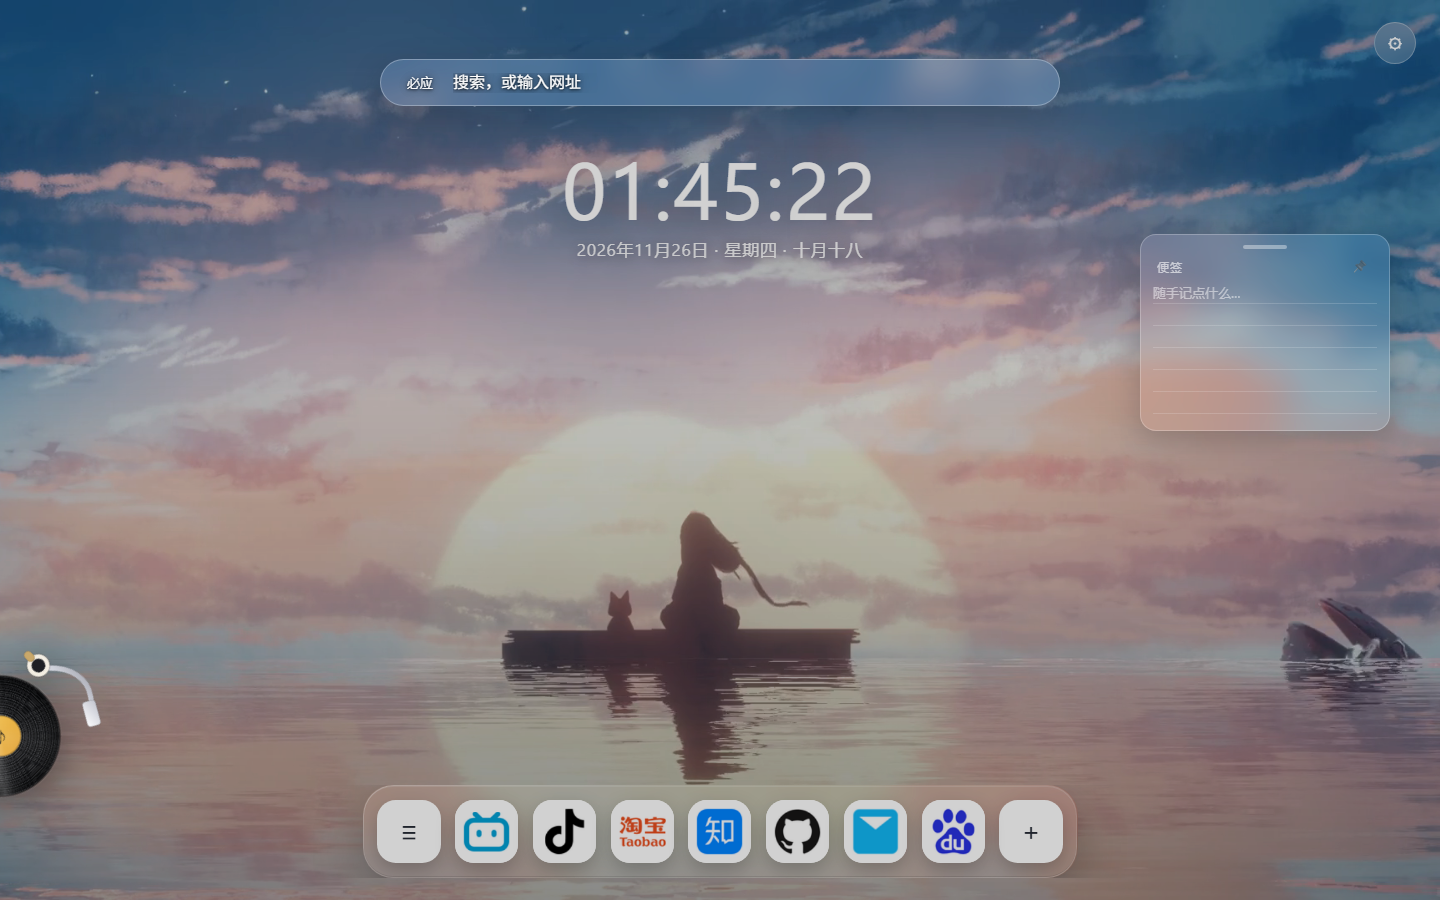
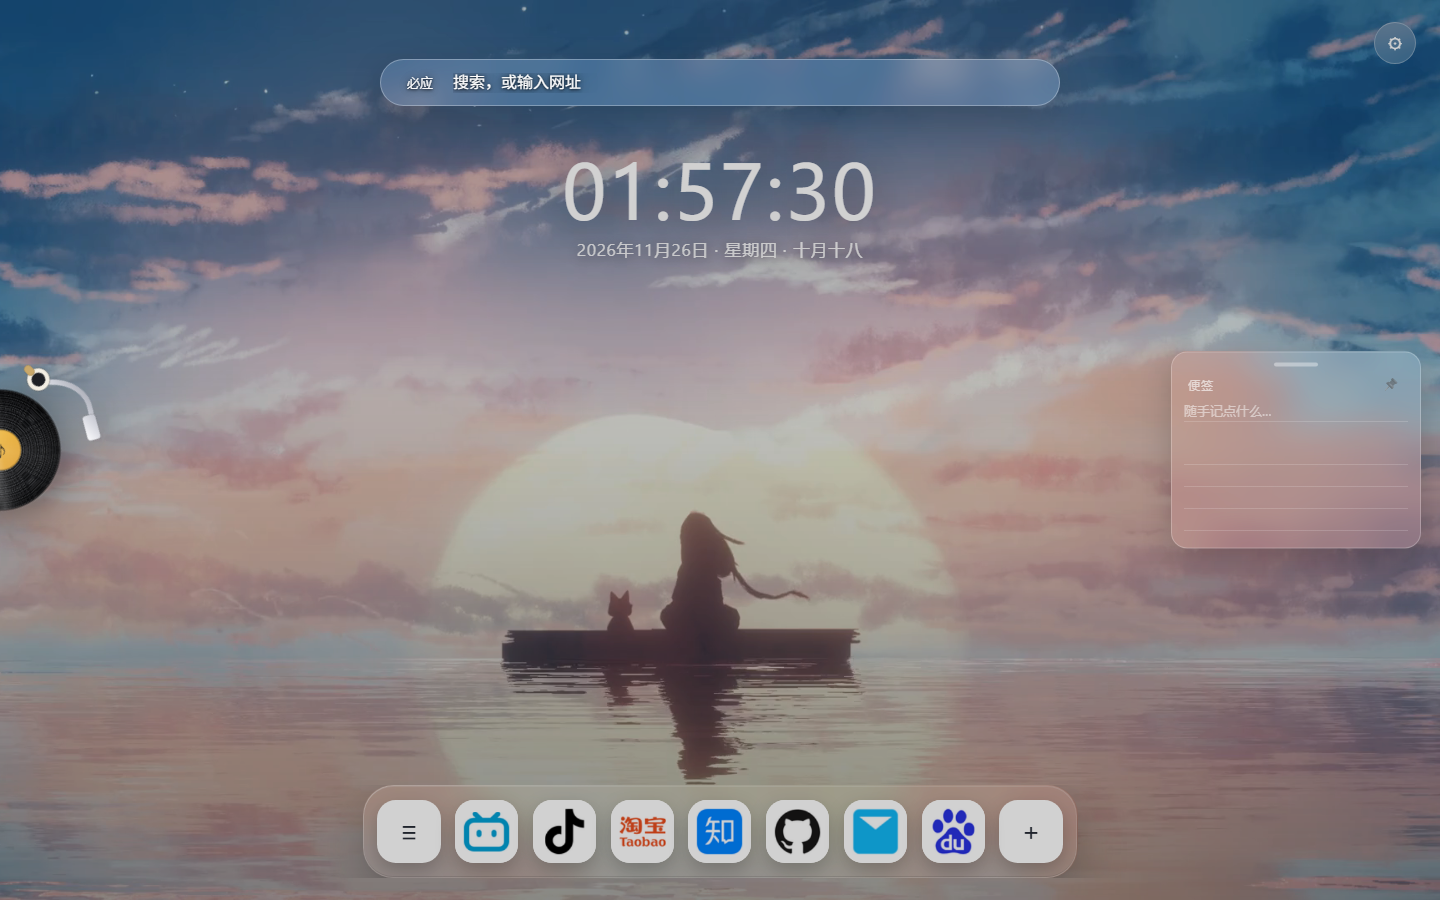
feat: 便签与音乐组件垂直居中，布局左右对称；README 补充功能介绍

diff --git a/extra.js b/extra.js
@@ -116,6 +116,8 @@
       var el = nodes[k]();
       if (!el) return;
       var p = S.layout && S.layout[k];
+      // 便签：没有手动摆放时，默认放在右侧垂直居中（与左侧唱片对称）
+      if (!p && k === "notes" && !S.freeLayout) p = { x: 90, y: 50 };
       if ((S.freeLayout || k === "notes") && p) {
         el.style.position = "absolute";
         el.style.left = p.x + "%";
@@ -1913,14 +1915,29 @@
   });
 
   /* --- 拖动调整位置 --- */
-  if (S.npPos && S.npPos.l === -42 && S.npPos.b === 104) S.npPos = { l: -60, b: 104 };   // 旧默认值迁移
-  var pos = S.npPos && typeof S.npPos.l === "number" ? S.npPos : { l: -60, b: 104 };
-  wrap.style.setProperty("--np-l", pos.l + "px");
-  wrap.style.setProperty("--np-b", pos.b + "px");
+  // 旧默认值迁移：左下 → 左侧垂直居中
+  if (S.npPos && S.npPos.l === -42 && S.npPos.b === 104) S.npPos = { l: -60, centerY: true };
+  if (S.npPos && S.npPos.l === -60 && S.npPos.b === 104) S.npPos = { l: -60, centerY: true };
+  var pos = S.npPos && typeof S.npPos.l === "number" ? S.npPos : { l: -60, centerY: true };
+  function applyNpPos() {
+    wrap.style.setProperty("--np-l", pos.l + "px");
+    if (pos.centerY) {
+      wrap.style.setProperty("--np-b", "calc(50vh - " + (SIZE / 2) + "px)");
+    } else {
+      wrap.style.setProperty("--np-b", pos.b + "px");
+    }
+  }
+  applyNpPos();
 
   var drag = null;
   disc.addEventListener("pointerdown", function (ev) {
     if (ev.button !== 0) return;
+    if (pos.centerY) {
+      var wr = wrap.getBoundingClientRect();
+      pos.b = Math.round(window.innerHeight - wr.bottom);
+      pos.centerY = false;
+      applyNpPos();
+    }
     drag = { x: ev.clientX, y: ev.clientY, l: pos.l, b: pos.b, moved: 0 };
     disc.classList.add("dragging");
     try { disc.setPointerCapture(ev.pointerId); } catch (e) {}
@@ -1936,8 +1953,8 @@
     var maxB = window.innerHeight - 120;
     pos.l = Math.max(-70, Math.min(maxL, nl));
     pos.b = Math.max(40, Math.min(maxB, nb));
-    wrap.style.setProperty("--np-l", pos.l + "px");
-    wrap.style.setProperty("--np-b", pos.b + "px");
+    pos.centerY = false;
+    applyNpPos();
   });
   function endDrag(ev) {
     if (!drag) return;
@@ -1952,13 +1969,12 @@
       else if (pos.l + SZ > W - T) { pos.l = W - SZ + half; snapped = true; }  // 贴右
       if (pos.b < T) { pos.b = 40; snapped = true; }                           // 贴底
       else if (pos.b + SZ > H - T) { pos.b = H - SZ; snapped = true; }         // 贴顶
-      wrap.style.setProperty("--np-l", pos.l + "px");
-      wrap.style.setProperty("--np-b", pos.b + "px");
+      applyNpPos();
       if (snapped) {
         wrap.classList.add("snap");
         setTimeout(function () { wrap.classList.remove("snap"); }, 240);
       }
-      S.npPos = { l: Math.round(pos.l), b: Math.round(pos.b) };
+      S.npPos = { l: Math.round(pos.l), b: Math.round(pos.b), centerY: false };
       try { SP.save(); } catch (e) {}
     } else {
       applyBig(!big);

diff --git a/index.html b/index.html
@@ -636,7 +636,7 @@
         <a data-t="s-dl"><span class="ic"><svg viewBox="0 0 24 24" fill="none" stroke="currentColor" stroke-width="1.7" stroke-linecap="round" stroke-linejoin="round"><path d="M12 4v10.5"/><path d="M7.8 10.6L12 14.8l4.2-4.2"/><path d="M4.5 19.5h15"/></svg></span>下载接管</a>
         <a data-t="s-data"><span class="ic"><svg viewBox="0 0 24 24" fill="none" stroke="currentColor" stroke-width="1.7" stroke-linecap="round" stroke-linejoin="round"><path d="M3.6 8.2a2 2 0 012-2h3.8l2 2.4h7a2 2 0 012 2v6.6a2 2 0 01-2 2H5.6a2 2 0 01-2-2z"/><path d="M3.6 11.4h16.8"/></svg></span>快捷方式与数据</a>
       </nav>
-      <div class="pnl-foot">本机存储 · build 264</div>
+      <div class="pnl-foot">本机存储 · build 265</div>
     </aside>
     <main class="pnl-main" id="pnlMain">
       <button class="pnl-x" id="pnlClose" title="关闭">&#10005;</button>

diff --git a/README.md b/README.md
@@ -12,6 +12,26 @@ Windows 下自用的浏览器新标签页：搜索、时钟天气、便签、Doc
 
 ---
 
+## 功能
+
+**新标签页**
+- 搜索框：多引擎、搜索联想、历史记录，`!g` / `!b` / `!gh` 等前缀临时切换引擎
+- 点搜索框进入聚焦模式：背景全屏虚化，底部显示每日一句（联网取诗词，离线用本地 60 句）
+- 时钟：12/24 小时、日期、农历、节气
+- 天气：Open-Meteo，三日预报，可自动定位或手填城市
+- 便签：自动保存，右侧垂直居中，可自由拖动
+- Dock：图标、拖动排序、右键菜单、悬停放大、磨砂玻璃
+- 全局 Dock：任意网页按 `Alt + Shift + D` 唤出
+- 壁纸：静态渐变 / 动态渐变 / 图片 / 视频，支持轮播、遮罩、模糊
+- 主题：深色浅色自适应，可调强调色、字体、Dock 透明度
+
+**Windows 增强（可选）**
+- 多线程下载：浏览器下载交给本地 `PclBridge`，HTTP Range 分段并发（1–64 线程），带进度/暂停/继续
+- 音乐组件：屏幕左侧吸一张黑胶唱片，点开有封面、歌名、控制、进度、音量；封面主色会染到卡片
+- 播放控制走 Windows 系统媒体会话（SMTC），暂停抬针、播放旋转
+
+---
+
 ## 安装（3 步）
 
 1. **解压**发布包（右键 → 全部解压，别在压缩包里直接点开）
